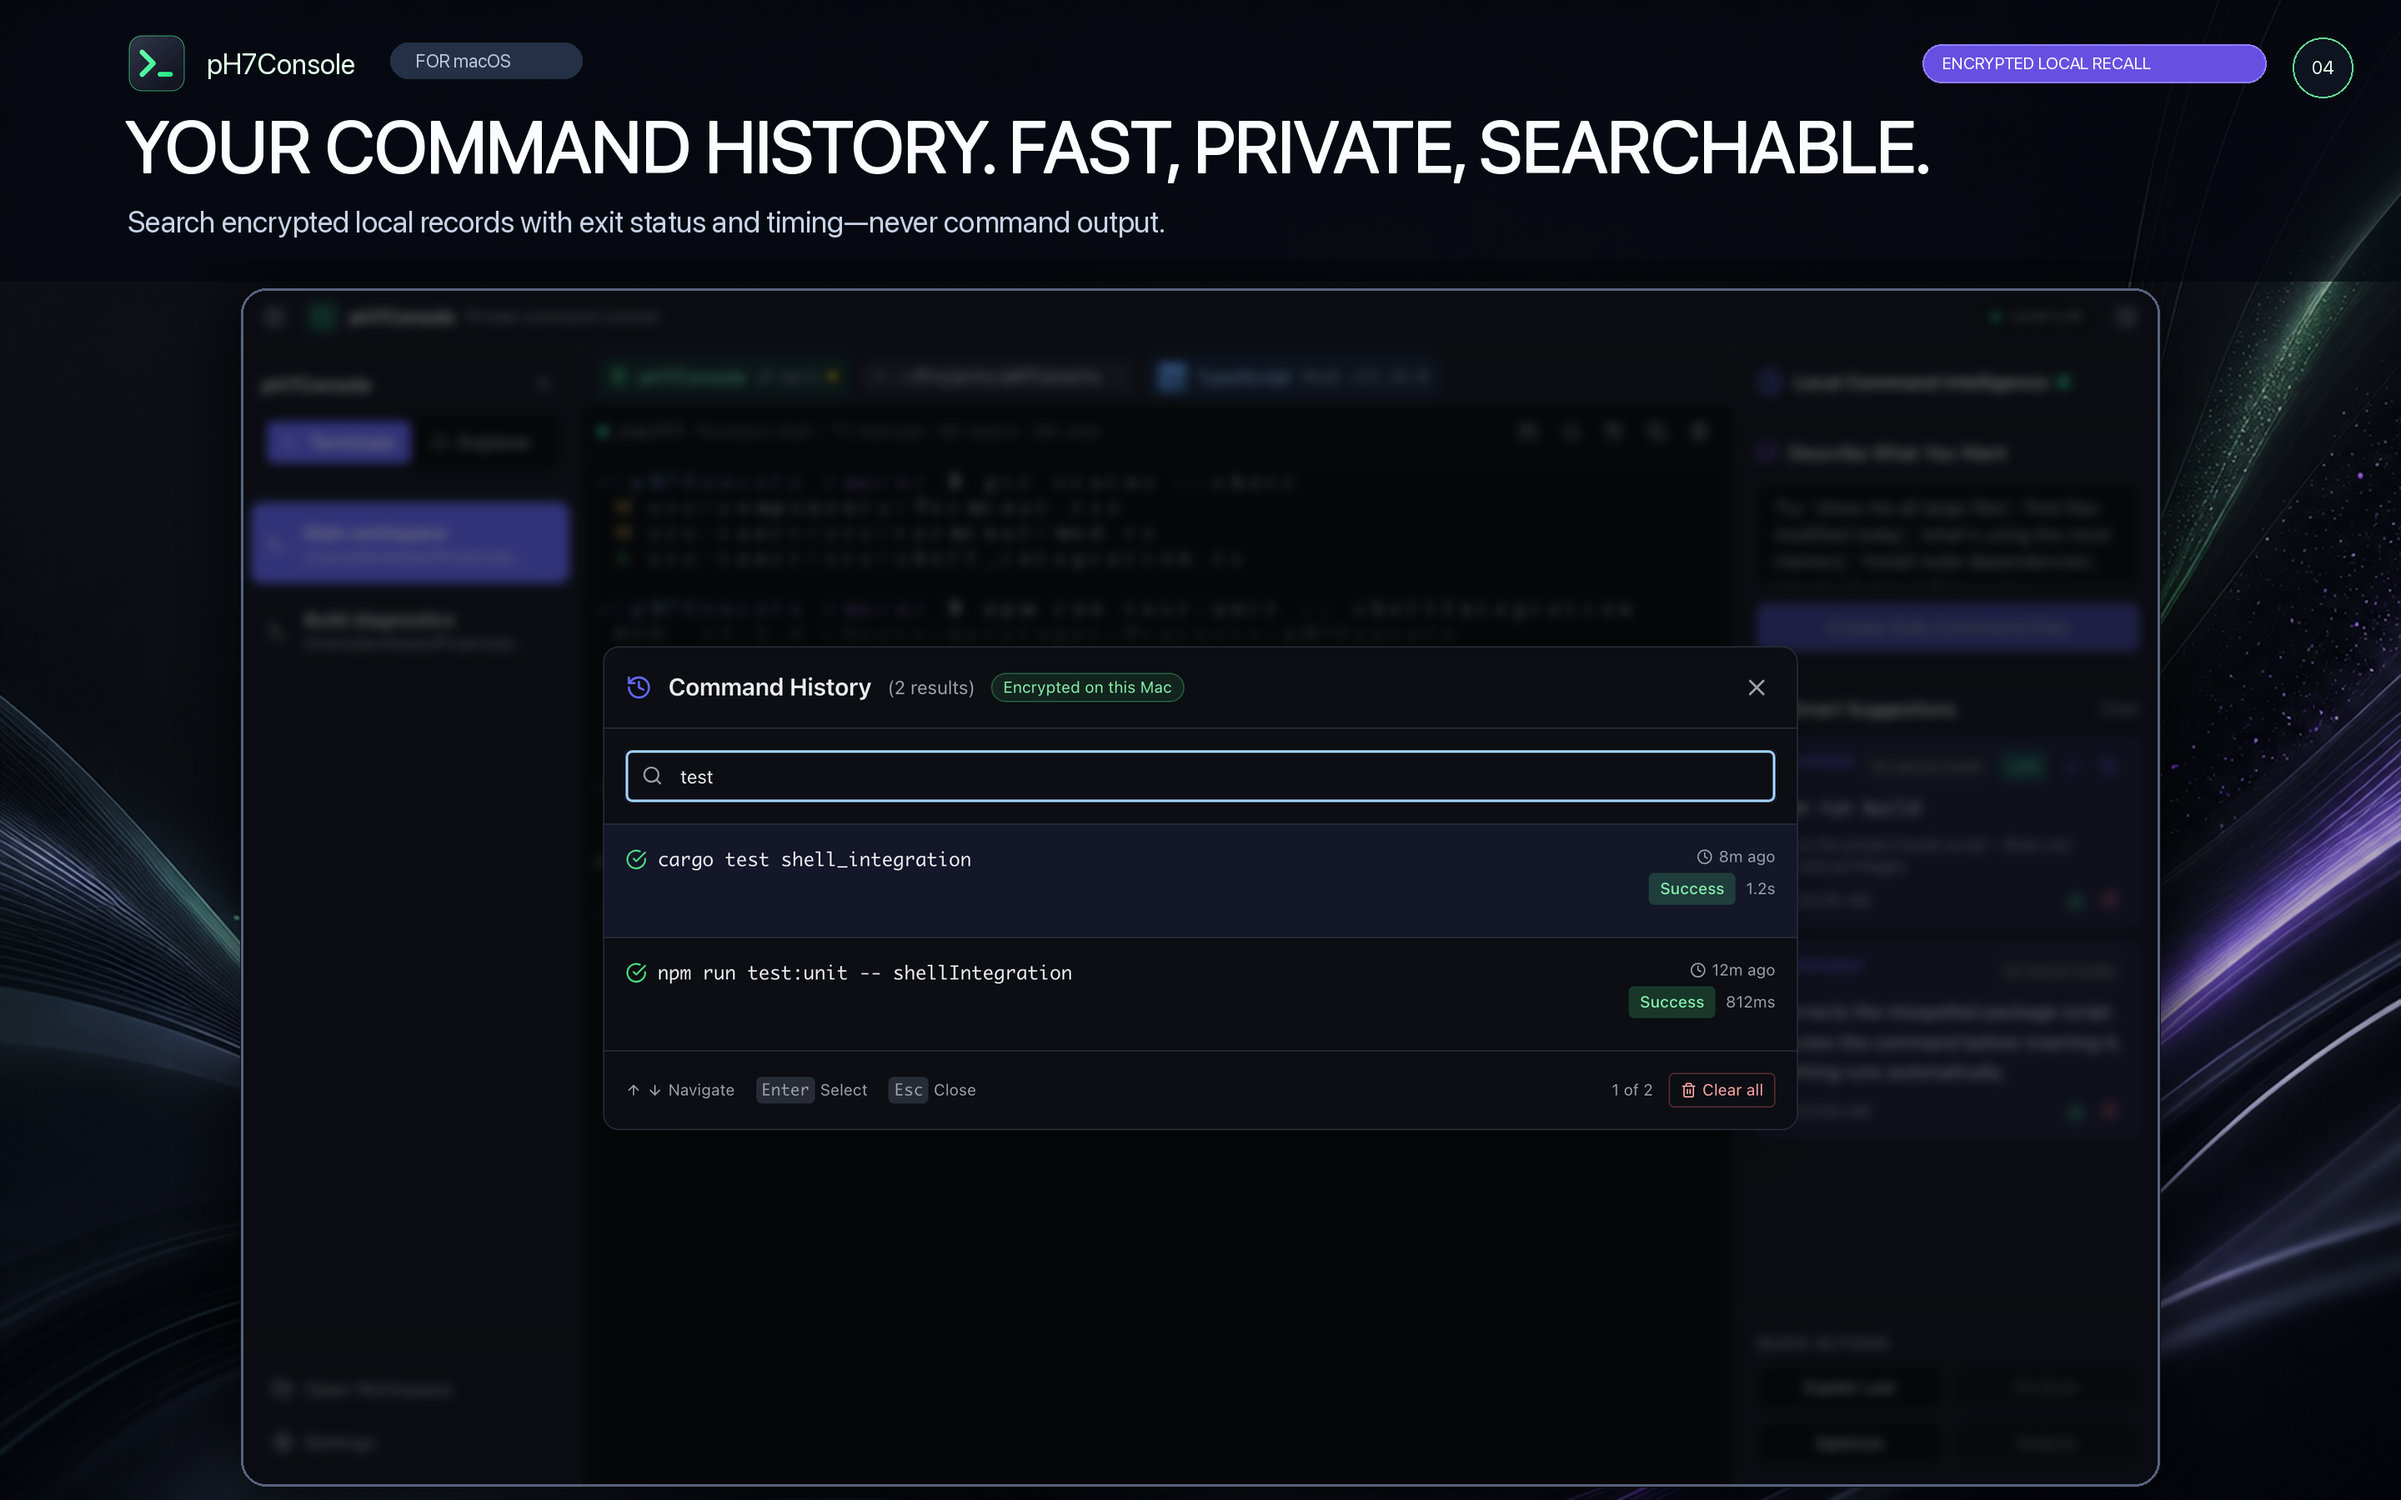
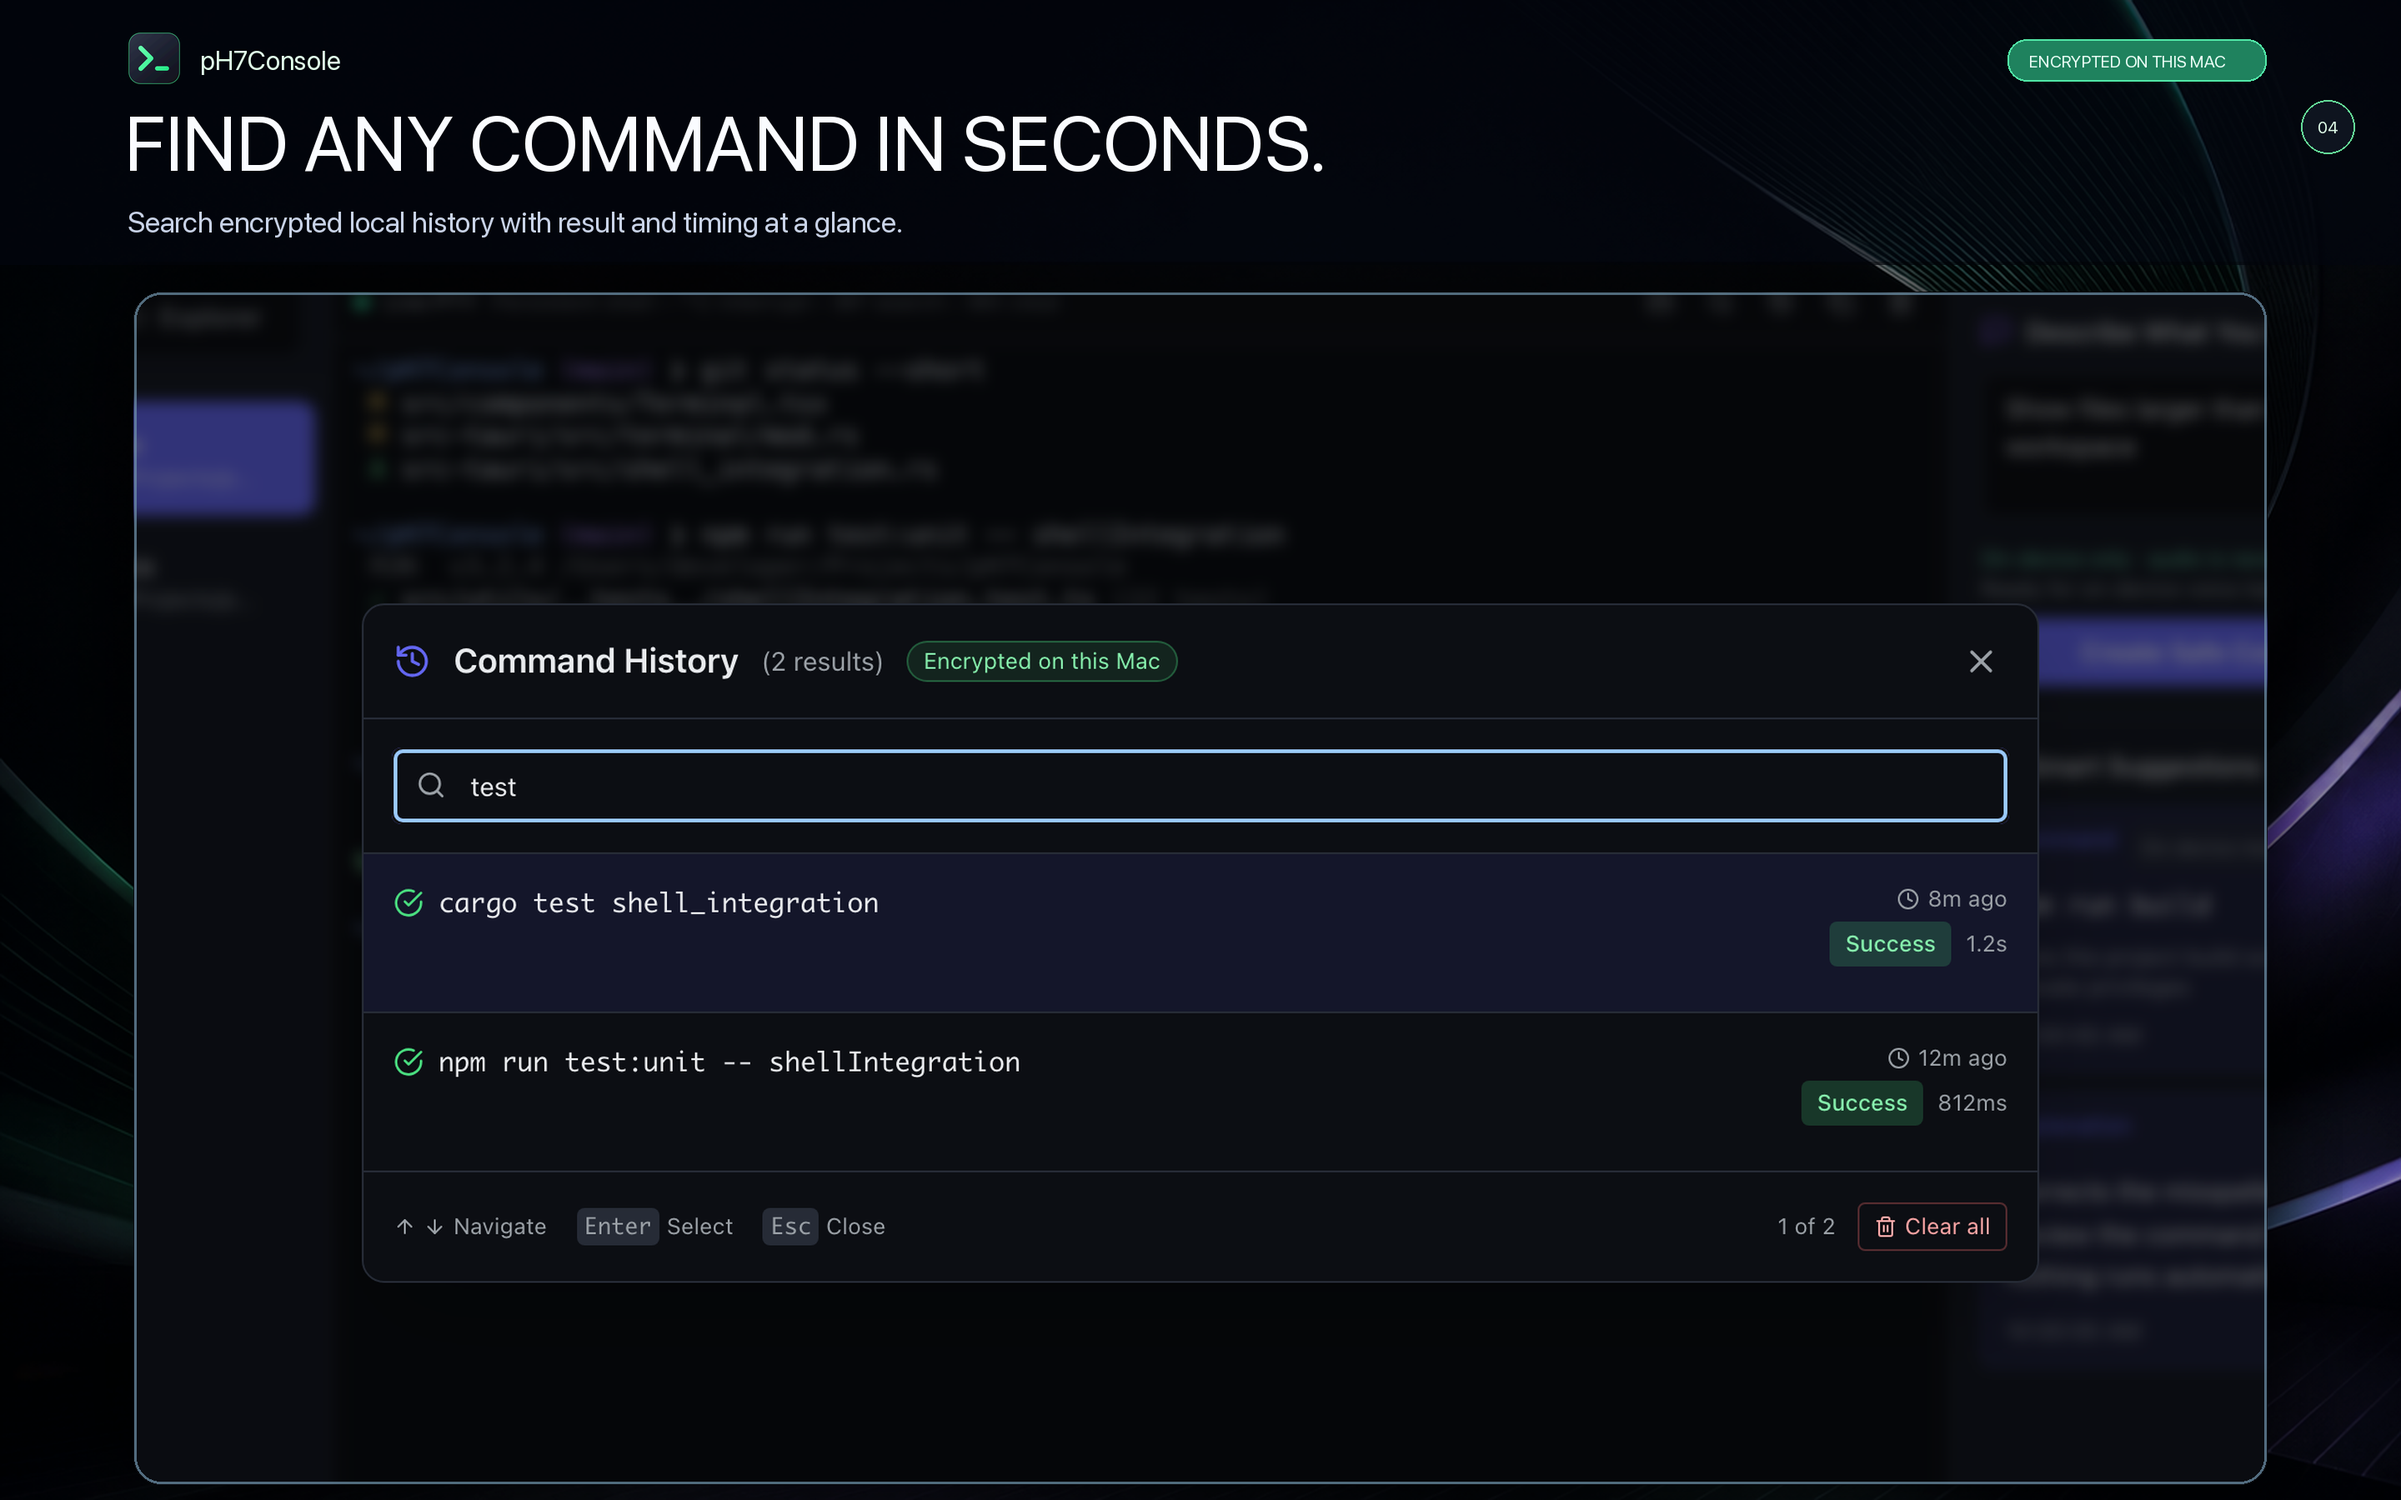
feat: spotlight real workflows in App Store screenshots

diff --git a/scripts/generate-appstore-assets.py b/scripts/generate-appstore-assets.py
@@ -8,50 +8,55 @@ from PIL import Image, ImageChops, ImageDraw, ImageEnhance, ImageFilter, ImageFo
 
 
 ROOT = Path(__file__).resolve().parents[1]
-BACKGROUND = ROOT / "app-store/assets/store-background-v2.png"
+BACKGROUND = ROOT / "app-store/assets/store-background-v3.png"
 ICON = ROOT / "app-store/assets/AppIcon-1024.png"
 RAW = ROOT / "app-store/raw-screenshots"
 OUTPUT = ROOT / "app-store/screenshots"
 FASTLANE = ROOT / "fastlane/screenshots/en-US"
 SIZE = (2880, 1800)
-APP_SIZE = (2304, 1440)
-APP_POSITION = (288, 345)
+APP_MAX_SIZE = (2560, 1450)
+APP_TOP = 350
 
 CAPTURES = [
     (
         "01-private-local-assistance.png",
-        "YOUR SHELL. NOW WITH PRIVATE LOCAL AI.",
-        "Review a safe command plan, then insert it—nothing runs without you.",
-        "PRIVATE • LOCAL • IN CONTROL",
+        "ASK IN ENGLISH. GET THE COMMAND.",
+        "Private local AI builds a safe command plan you review before anything runs.",
+        "ON-DEVICE AI",
         "01-private-command-console.png",
+        (0, 65, 2880, 1685),
     ),
     (
         "02-local-error-fix.png",
-        "FIX THE ERROR. KEEP YOUR FLOW.",
-        "Private local guidance explains the next command while you stay in control.",
-        "LOCAL ERROR GUIDANCE",
+        "ERRORS EXPLAINED. FIXES READY.",
+        "Understand the failure, review the correction, and keep moving.",
+        "LOCAL ERROR RECOVERY",
         "02-local-error-guidance.png",
+        (510, 65, 2880, 1415),
     ),
     (
         "03-workspace-explorer.png",
-        "YOUR PROJECT. YOUR SHELL. ONE WORKSPACE.",
-        "Browse the folder you choose while a real PTY stays live.",
-        "WORKSPACE AWARE",
+        "ONE WORKSPACE. ZERO CONTEXT SWITCHING.",
+        "Your files, project context, live shell, and AI stay in one focused view.",
+        "PROJECT-AWARE",
         "03-private-workspace-explorer.png",
+        (0, 65, 2880, 1685),
     ),
     (
         "04-searchable-history.png",
-        "YOUR COMMAND HISTORY. FAST, PRIVATE, SEARCHABLE.",
-        "Search encrypted local records with exit status and timing—never command output.",
-        "ENCRYPTED LOCAL RECALL",
+        "FIND ANY COMMAND IN SECONDS.",
+        "Search encrypted local history with result and timing at a glance.",
+        "ENCRYPTED ON THIS MAC",
         "04-searchable-command-history.png",
+        (300, 205, 2580, 1480),
     ),
     (
         "05-privacy-settings.png",
-        "YOUR WORK STAYS ON YOUR MAC.",
-        "No account, no telemetry, no remote AI—and encrypted command history.",
+        "LOCAL AI. ZERO CLOUD REQUIRED.",
+        "No account. No telemetry. Your terminal context stays on your Mac.",
         "PRIVATE BY DESIGN",
         "05-private-by-design.png",
+        (420, 170, 2460, 1510),
     ),
 ]
 
@@ -103,87 +108,87 @@ def compose(
     subtitle: str,
     eyebrow: str,
     output_name: str,
+    crop_box: tuple[int, int, int, int],
     index: int,
 ) -> Path:
     background = Image.open(BACKGROUND).convert("RGB").resize(SIZE, Image.Resampling.LANCZOS)
-    background = ImageEnhance.Contrast(background).enhance(1.08)
-    background = ImageEnhance.Brightness(background).enhance(0.84)
+    background = ImageEnhance.Contrast(background).enhance(1.06)
+    background = ImageEnhance.Brightness(background).enhance(0.78)
 
-    # Retain the generated green/violet motion while reserving a calm,
+    # Preserve the restrained edge motion while reserving a calm,
     # high-contrast band for store copy and a readable product window.
     overlay = Image.new("RGBA", SIZE, (2, 5, 14, 0))
     overlay_draw = ImageDraw.Draw(overlay)
-    overlay_draw.rectangle((0, 0, SIZE[0], 338), fill=(2, 5, 14, 172))
-    overlay_draw.rectangle((0, 338, SIZE[0], SIZE[1]), fill=(2, 5, 14, 34))
+    overlay_draw.rectangle((0, 0, SIZE[0], 318), fill=(2, 5, 14, 184))
+    overlay_draw.rectangle((0, 318, SIZE[0], SIZE[1]), fill=(2, 5, 14, 42))
     background = Image.alpha_composite(background.convert("RGBA"), overlay)
     draw = ImageDraw.Draw(background)
 
-    icon = Image.open(ICON).convert("RGBA").resize((76, 76), Image.Resampling.LANCZOS)
-    icon_mask = rounded_mask(icon.size, 17)
+    icon = Image.open(ICON).convert("RGBA").resize((70, 70), Image.Resampling.LANCZOS)
+    icon_mask = rounded_mask(icon.size, 16)
     icon.putalpha(ImageChops.multiply(icon.getchannel("A"), icon_mask))
-    background.alpha_composite(icon, (150, 38))
+    background.alpha_composite(icon, (150, 35))
 
-    draw.text((248, 56), "pH7Console", font=font(34), fill=(225, 255, 234, 255))
-    draw.rounded_rectangle((468, 51, 698, 94), radius=21, fill=(35, 48, 69, 210))
-    draw.text((499, 59), "FOR macOS", font=font(22), fill=(184, 196, 218, 255))
+    draw.text((240, 53), "pH7Console", font=font(32), fill=(225, 255, 234, 255))
 
-    headline_font = fit_text(draw, headline, 2360, 86)
+    headline_font = fit_text(draw, headline, 2360, 92)
     draw.text(
-        (150, 123),
+        (150, 116),
         headline,
         font=headline_font,
         fill=(250, 252, 255, 255),
-        stroke_width=1,
-        stroke_fill=(250, 252, 255, 90),
     )
-    draw.text((153, 244), subtitle, font=font(36), fill=(201, 211, 231, 255))
+    draw.text((153, 245), subtitle, font=font(35), fill=(201, 211, 231, 255))
 
     eyebrow_font = font(20)
     eyebrow_bounds = draw.textbbox((0, 0), eyebrow, font=eyebrow_font)
     eyebrow_width = eyebrow_bounds[2] - eyebrow_bounds[0]
-    eyebrow_x = 2580 - eyebrow_width
+    eyebrow_x = 2670 - eyebrow_width
     draw.rounded_rectangle(
-        (eyebrow_x - 24, 53, 2718, 99),
+        (eyebrow_x - 26, 47, 2718, 97),
         radius=23,
-        fill=(103, 80, 225, 212),
-        outline=(146, 126, 255, 175),
+        fill=(31, 130, 94, 218),
+        outline=(81, 231, 167, 190),
         width=2,
     )
-    draw.text((eyebrow_x, 63), eyebrow, font=eyebrow_font, fill=(255, 255, 255, 255))
+    draw.text((eyebrow_x, 61), eyebrow, font=eyebrow_font, fill=(236, 255, 247, 255))
 
-    source = load_capture(source_name).resize(APP_SIZE, Image.Resampling.LANCZOS).convert("RGBA")
-    source.putalpha(rounded_mask(APP_SIZE, 30))
+    source = load_capture(source_name).crop(crop_box)
+    scale = min(APP_MAX_SIZE[0] / source.width, APP_MAX_SIZE[1] / source.height)
+    app_size = (round(source.width * scale), round(source.height * scale))
+    app_position = ((SIZE[0] - app_size[0]) // 2, APP_TOP)
+    source = source.resize(app_size, Image.Resampling.LANCZOS).convert("RGBA")
+    source.putalpha(rounded_mask(app_size, 32))
 
-    shadow = Image.new("RGBA", (APP_SIZE[0] + 160, APP_SIZE[1] + 120), (0, 0, 0, 0))
+    shadow = Image.new("RGBA", (app_size[0] + 180, app_size[1] + 130), (0, 0, 0, 0))
     shadow_draw = ImageDraw.Draw(shadow)
     shadow_draw.rounded_rectangle(
-        (80, 34, 80 + APP_SIZE[0], 34 + APP_SIZE[1]),
-        radius=38,
-        fill=(0, 0, 0, 232),
+        (90, 36, 90 + app_size[0], 36 + app_size[1]),
+        radius=42,
+        fill=(0, 0, 0, 238),
     )
-    shadow = shadow.filter(ImageFilter.GaussianBlur(46))
-    app_x, app_y = APP_POSITION
-    background.alpha_composite(shadow, (app_x - 80, app_y - 34))
+    shadow = shadow.filter(ImageFilter.GaussianBlur(52))
+    app_x, app_y = app_position
+    background.alpha_composite(shadow, (app_x - 90, app_y - 36))
 
     # The edge separates the real app capture from every background variation.
-    edge = Image.new("RGBA", APP_SIZE, (0, 0, 0, 0))
+    edge = Image.new("RGBA", app_size, (0, 0, 0, 0))
     edge_draw = ImageDraw.Draw(edge)
     edge_draw.rounded_rectangle(
-        (1, 1, APP_SIZE[0] - 2, APP_SIZE[1] - 2),
-        radius=30,
-        outline=(129, 147, 185, 165),
+        (1, 1, app_size[0] - 2, app_size[1] - 2),
+        radius=32,
+        outline=(113, 150, 174, 178),
         width=3,
     )
-    background.alpha_composite(source, APP_POSITION)
-    background.alpha_composite(edge, APP_POSITION)
+    background.alpha_composite(source, app_position)
+    background.alpha_composite(edge, app_position)
 
-    # A restrained sequence marker makes ordering obvious without competing
-    # with the feature-specific badge.
+    # The sequence marker stays quiet while making gallery order intentional.
     sequence = f"0{index}"
-    draw.ellipse((2750, 45, 2822, 117), fill=(14, 20, 31, 224), outline=(99, 218, 151, 190), width=2)
-    sequence_bounds = draw.textbbox((0, 0), sequence, font=font(22))
+    draw.ellipse((2760, 120, 2824, 184), fill=(14, 20, 31, 224), outline=(99, 218, 151, 190), width=2)
+    sequence_bounds = draw.textbbox((0, 0), sequence, font=font(20))
     sequence_width = sequence_bounds[2] - sequence_bounds[0]
-    draw.text((2786 - sequence_width / 2, 67), sequence, font=font(22), fill=(226, 255, 235, 255))
+    draw.text((2792 - sequence_width / 2, 140), sequence, font=font(20), fill=(226, 255, 235, 255))
 
     OUTPUT.mkdir(parents=True, exist_ok=True)
     output_path = OUTPUT / output_name
